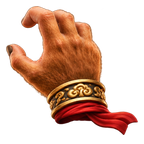
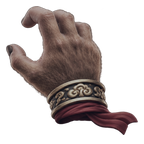
图标优化

diff --git a/src/entry-models.ts b/src/entry-models.ts
@@ -156,7 +156,10 @@ function* buildCrown(init: Initialization): Generator<void, EntryModel> {
 }
 
 /** 丝带用一次分配的动态三角带；横向高斯分布同时保留细芯和柔光，无额外后处理画布。 */
-export function redSilk(init: Initialization,root: THREE.Group, side: number, strand: number) {
+export function redSilk(init: Initialization,root: THREE.Group, side: number, strand: number,
+  appearance: { width?: number; reach?: number; glow?: number } = {}) {
+  // 参考图入口可单独加强小尺寸红丝；默认参数保持原实体模型的曲线、宽度和光晕。
+  const { width: widthScale = 1, reach = 1, glow = .32 } = appearance;
   const segments=36, positions=new Float32Array((segments+1)*2*3), uv=new Float32Array((segments+1)*2*2);
   const geometry=init.track(new THREE.BufferGeometry()), indices: number[]=[];
   for(let i=0;i<=segments;i++) for(let j=0;j<2;j++) {
@@ -169,11 +172,11 @@ export function redSilk(init: Initialization,root: THREE.Group, side: number, st
   geometry.setIndex(indices);
   const material=init.track(new THREE.ShaderMaterial({
     transparent:true, depthWrite:false, depthTest:false, side:THREE.DoubleSide, toneMapped:false,
-    uniforms:{strength:{value:0}},
+    uniforms:{strength:{value:0},glow:{value:glow}},
     vertexShader:`varying vec2 vUv; void main(){vUv=uv;gl_Position=projectionMatrix*modelViewMatrix*vec4(position,1.);}`,
-    fragmentShader:`varying vec2 vUv; uniform float strength;
-      void main(){float d=(vUv.x-.5)*2.;float core=exp(-d*d*75.);float glow=exp(-d*d*4.)*.32;
-      float tail=pow(1.-vUv.y,.6);gl_FragColor=vec4(vec3(1.,.075+core*.22,.055+core*.11), (core+glow)*tail*strength);}`,
+    fragmentShader:`varying vec2 vUv; uniform float strength; uniform float glow;
+      void main(){float d=(vUv.x-.5)*2.;float core=exp(-d*d*75.);float halo=exp(-d*d*4.)*glow;
+      float tail=pow(1.-vUv.y,.6);gl_FragColor=vec4(vec3(1.,.075+core*.22,.055+core*.11), (core+halo)*tail*strength);}`,
   }));
   const mesh=new THREE.Mesh(geometry,material);
   mesh.frustumCulled=false; mesh.renderOrder=10;
@@ -185,10 +188,11 @@ export function redSilk(init: Initialization,root: THREE.Group, side: number, st
     for(let i=0;i<=segments;i++) {
       const t=i/segments,p=silkPoint(t,time,side,strand,extension);
       // 收敛时长度和透明度一起衰减；根点不挪动，尾端的宽度精确减到零。
-      const width=p.width*5;
+      const width=p.width*5*widthScale;
       for(let j=0;j<2;j++) {
         const at=(i*2+j)*3;
-        positions[at]=p.x;positions[at+1]=p.y+(j?1:-1)*width;positions[at+2]=p.z+3;
+        positions[at]=side*12.4+(p.x-side*12.4)*reach;
+        positions[at+1]=.6+(p.y-.6)*reach+(j?1:-1)*width;positions[at+2]=p.z+3;
       }
     }
     geometry.getAttribute("position").needsUpdate=true;

diff --git a/src/entry-artwork.ts b/src/entry-artwork.ts
@@ -4,7 +4,7 @@ import { redSilk } from "./entry-models.ts";
 import type { EntryModel } from "./entry-models.ts";
 import { Initialization } from "./scene/initialization.ts";
 
-/** 原稿保持自身色彩和高光，网格只负责羽片变形和转头透视，不再叠加场景灯光染色。 */
+/** 月夜素材保持烘焙后的冷金高光，网格只负责羽片变形和转头透视，不再叠加场景灯光染色。 */
 function artworkMesh(texture: THREE.Texture, width: number, height: number, init: Initialization) {
   const geometry = init.track(new THREE.PlaneGeometry(width, height, 48, 48));
   const material = init.track(new THREE.MeshBasicMaterial({
@@ -35,10 +35,12 @@ function feather(mesh: THREE.Mesh, side: number) {
   return (time: number, amount: number) => {
     for (let i = 0; i < position.count; i++) {
       const pose = featherPose(weights[i], time, side, amount);
+      // 参考图的拱顶权重较低，把弯摆扩大到原来的 5.2 倍，细梢扭转同步加强而羽根仍为零。
+      const bend = pose.bend * 5.2;
       const x = rest[i * 3] - rootX, y = rest[i * 3 + 1] - rootY;
-      const cos = Math.cos(pose.bend), sin = Math.sin(pose.bend);
+      const cos = Math.cos(bend), sin = Math.sin(bend);
       position.setXYZ(i, rootX + x * cos - y * sin, rootY + x * sin + y * cos,
-        rest[i * 3 + 2] + pose.twist * x * .2);
+        rest[i * 3 + 2] + pose.twist * x * .4);
     }
     position.needsUpdate = true;
   };
@@ -93,7 +95,7 @@ export function buildEntryArtwork(kind: "crown" | "monkey", textures: THREE.Text
   mesh.material.customProgramCacheKey = () => "reference-monkey-eyes-v1";
   // 复用六条红丝的原曲线和缓冲，仅把根点映射到新参考图的外眼角。
   const updates = [-1, 1].flatMap(side => [0, 1, 2].map(strand => {
-    const update = redSilk(init, root, side, strand);
+    const update = redSilk(init, root, side, strand, { width: 1.9, reach: 1.25, glow: .68 });
     const silk = root.children[root.children.length - 1];
     silk.name = "artwork-silk";
     silk.scale.set(.8, .8, 1);

diff --git a/tests/entry-artwork.test.ts b/tests/entry-artwork.test.ts
@@ -33,6 +33,17 @@ test("reference crown bends independent feathers without moving their roots", ()
       assert.equal(buffer.array[index], rest[i][index], "羽根顶点必须固定");
     }
   });
+  // 长时间采样必须达到肉眼可辨的摆幅，同时保持既有缓冲和左右独立节奏。
+  let peak = 0;
+  for (let time = 0; time < 12000; time += 173) {
+    model.update(time, 1, 0, 0);
+    buffers.forEach((buffer, side) => {
+      for (let i = 0; i < buffer.count; i++) {
+        peak = Math.max(peak, Math.hypot(buffer.getX(i) - rest[side][i * 3], buffer.getY(i) - rest[side][i * 3 + 1]));
+      }
+    });
+  }
+  assert.ok(peak > 10 && peak < 30, `羽片最大摆幅应明显且受控：${peak}`);
   model.update(1673, 0, 0, 0);
   buffers.forEach((buffer, i) => assert.deepEqual(Array.from(buffer.array), rest[i]));
   init.dispose();
@@ -55,6 +66,10 @@ test("reference monkey preserves turn, red eyes, silk and texture disposal", () 
   const silk = model.root.children.filter(object => object.name === "artwork-silk");
   assert.equal(silk.length, 6);
   assert.ok(silk.every(object => object.visible));
+  const thread = silk[0] as THREE.Mesh<THREE.BufferGeometry, THREE.ShaderMaterial>;
+  const positions = thread.geometry.getAttribute("position");
+  assert.ok(Math.abs(positions.getY(0) - positions.getY(1)) > 4.5, "红丝根部需有更清晰的细芯和柔光宽度");
+  assert.ok(thread.material.uniforms.glow.value >= .6, "小尺寸红丝应保留可见柔光");
   model.update(1800, 1, 0, 0);
   assert.equal(model.root.rotation.y, rest);
   assert.ok(silk.every(object => !object.visible));

diff --git a/src/style.css b/src/style.css
@@ -705,11 +705,13 @@ h1 > strong {
 .entry-copy { display: block; }
 /* 无脚本或模块加载失败时仍提供整体浮动；正常运行用可平滑反向的共享调度器。 */
 .journey-link:not(.world-link):not(.entry-enhanced):hover .entry-copy,
-.journey-link:not(.world-link):not(.entry-enhanced):focus-visible .entry-copy { animation: moon-entry-float 2.8s ease-in-out infinite; }
+.journey-link:not(.world-link):not(.entry-enhanced):focus-visible .entry-copy,
+.journey-link:not(.world-link):not(.entry-enhanced):hover > .entry-icon,
+.journey-link:not(.world-link):not(.entry-enhanced):focus-visible > .entry-icon { animation: moon-entry-float 2.8s ease-in-out infinite; }
 @keyframes moon-entry-float { 0%,100% { transform: translateY(0); } 25% { transform: translateY(-2px); } 75% { transform: translateY(2px); } }
 @media (max-width: 767px) { .entry-icon { width: 36px; height: 36px; } }
 @media (max-height: 600px) { .entry-icon { width: 30px; height: 30px; } }
-@media (prefers-reduced-motion: reduce) { .journey-link .entry-copy { animation: none !important; } }
+@media (prefers-reduced-motion: reduce) { .journey-link .entry-copy, .journey-link .entry-icon { animation: none !important; } }
 @media (forced-colors: active) {
   .entry-canvas { display: none; }
   .entry-icon[data-model-ready="true"] .entry-fallback { visibility: visible; }

diff --git a/src/entry-icons.ts b/src/entry-icons.ts
@@ -121,6 +121,8 @@ export function installEntryIcons(links: HTMLAnchorElement[]) {
       const world=item.link.dataset.entrance==="world";
       const offset=world?1.5*(1-Math.cos(phase/1.8))*amount:2*Math.sin(phase/2.8)*amount;
       item.copy.style.transform=amount>0?`translate${world?"X":"Y"}(${offset}px)`:"none";
+      // 冠座与文案使用同一帧、同一位移，羽片在内部继续独立飘动；猴头保留原来的转头。
+      item.slot.style.transform=world?"none":item.copy.style.transform;
       item.link.dataset.entryActive=String(motion.active);
       if(item.ready && item.renderer && item.scene && item.camera && item.model && !contrastQuery.matches) {
         try {
@@ -192,6 +194,7 @@ export function installEntryIcons(links: HTMLAnchorElement[]) {
       item.link.classList.remove("entry-enhanced");
       delete item.link.dataset.entryActive;
       item.copy.style.removeProperty("transform");
+      item.slot.style.removeProperty("transform");
     });
   };
   return Object.assign(dispose,{cancelPending});

diff --git a/scripts/prepare-entry-artwork.py b/scripts/prepare-entry-artwork.py
@@ -1,9 +1,19 @@
-"""从用户提供的透明原稿拆分入口图标、冠羽和三种鼠标，保持原稿颜色与透明边缘。"""
+"""从用户提供的透明原稿拆分入口图标、冠羽和三种鼠标，统一月夜色调并保持透明边缘。"""
 from pathlib import Path
-from PIL import Image, ImageDraw, ImageChops
+from PIL import Image, ImageDraw, ImageChops, ImageEnhance
 
 ROOT = Path(__file__).resolve().parent.parent
 ASSETS = ROOT / "public" / "assets"
+
+
+def moonlight(image):
+    # 在同一素材生成阶段收敛橙金饱和度，并用偏蓝的暗部与银金高光呼应山谷月光。
+    # 只处理 RGB；保留原 alpha，使实时网格、静态后备和原生鼠标边缘完全一致。
+    alpha = image.getchannel("A")
+    subdued = ImageEnhance.Color(image.convert("RGB")).enhance(0.42)
+    channels = [channel.point(lambda value, gain=gain, lift=lift: round(value * 0.73 * gain + lift))
+                for channel, gain, lift in zip(subdued.split(), (1.02, 1.0, 0.98), (4, 9, 18))]
+    return Image.merge("RGBA", (*channels, alpha))
 
 
 def trim(image):
@@ -17,7 +27,7 @@ def save(image, name, limit=512):
     image.save(ASSETS / name, optimize=True)
 
 
-icons = Image.open(ROOT / "金羽王冠与猿王头像.png").convert("RGBA")
+icons = moonlight(Image.open(ROOT / "金羽王冠与猿王头像.png").convert("RGBA"))
 crown = icons.crop((0, 0, 950, icons.height))
 monkey = trim(icons.crop((950, 0, icons.width, icons.height)))
 save(monkey, "entry-monkey-artwork.png")
@@ -40,7 +50,7 @@ for name, region in [("base", None), ("left", (0, 0, 480, crown.height)),
     layer.putalpha(ImageChops.multiply(crown.getchannel("A"), mask))
     save(layer.crop(bounds), f"entry-crown-{name}.png")
 
-cursor = Image.open(ROOT / "金红云纹金箍棒与猴手饰件.png").convert("RGBA")
+cursor = moonlight(Image.open(ROOT / "金红云纹金箍棒与猴手饰件.png").convert("RGBA"))
 for name, left, right in [("staff", 0, 700), ("point", 700, 1350), ("grab", 1350, cursor.width)]:
     item = trim(cursor.crop((left, 0, right, cursor.height)))
     # 同一 72px 方形画幅保留 3px 外边距；棒头、指尖和抓取中心分别对齐各自热点。
